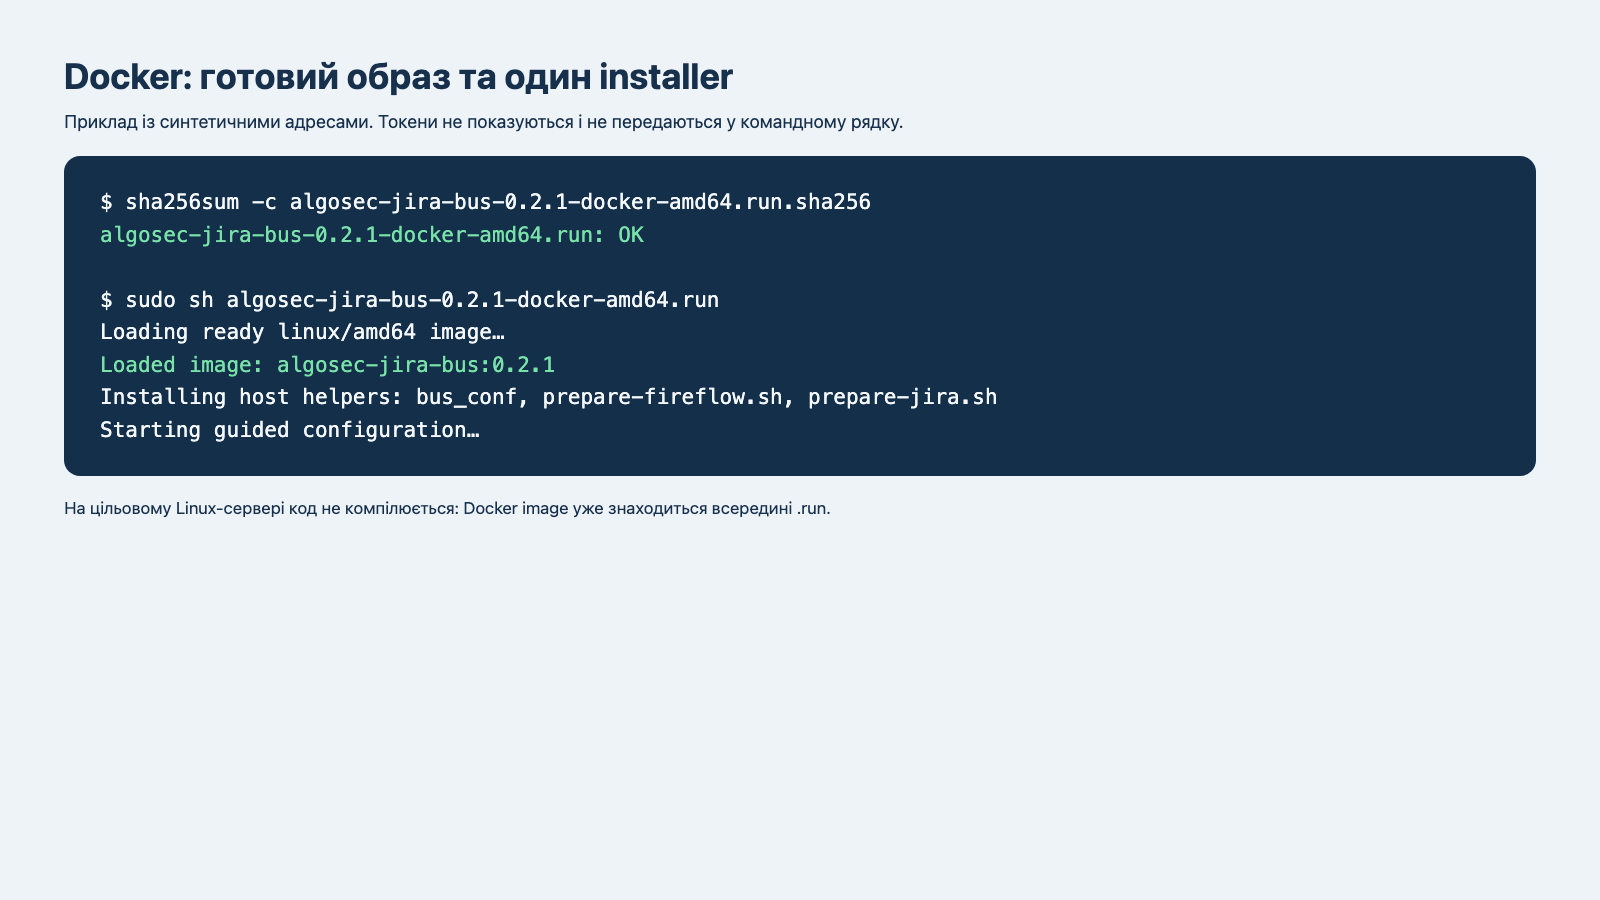
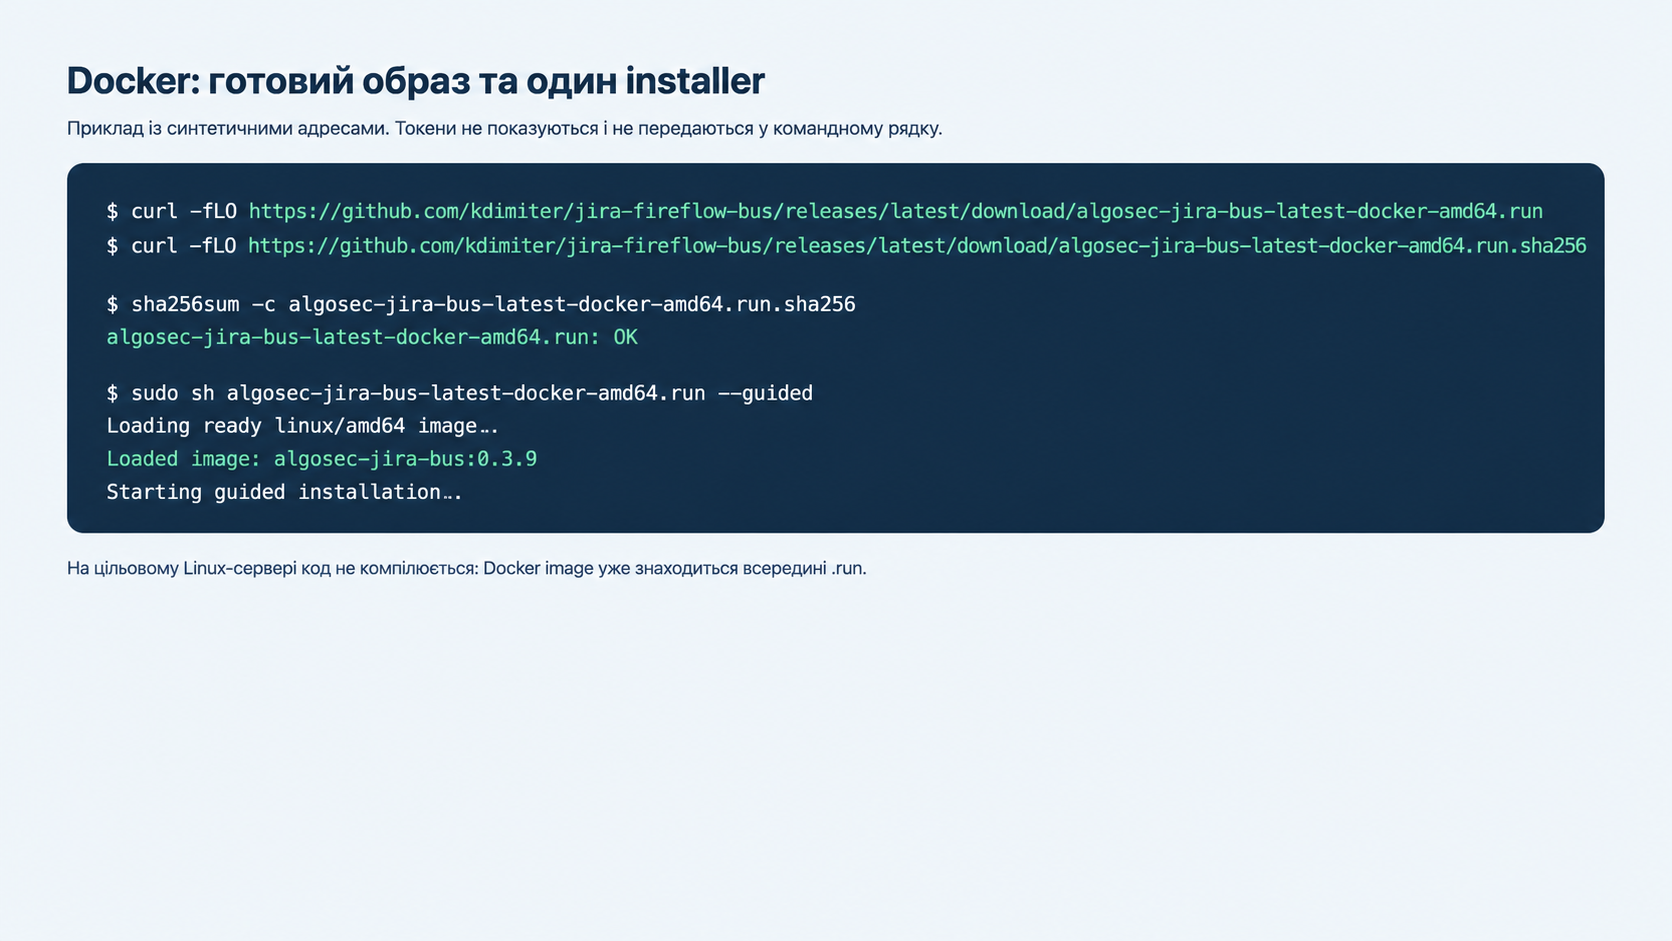
docs: add current installer and Jira form visuals (#27)
The README and Ukrainian deployment guide now show the current stable
Docker installer, a sanitized structured Jira request using RFC 5737
addresses, and the post-deployment configuration screen. The public-tree
allowlist pins both reviewed image digests.

Validation:
- `python3 scripts/check-public-tree.py`
- `python3 -m unittest tests.test_public_tree`
- privacy review: no PII, credentials, tenant hostnames, internal
addresses, or secrets

diff --git a/scripts/check-public-tree.py b/scripts/check-public-tree.py
@@ -41,8 +41,9 @@ allowed_screenshots = {
         'f5f8a9c9c7739345', '56106c1bce769247')),
[6 lines of base64/hex data omitted]
 }
 violations = []
 for path in root.rglob('*'):

diff --git a/README.md b/README.md
@@ -45,6 +45,8 @@ sudo docker ps --filter name=algosec-jira-bus
 sudo docker logs --tail 100 algosec-jira-bus
 ```
 
+![Ready Docker installer with stable latest-release links](docs/screenshots/21-docker-installer.png)
+
 `--guided` is the simplest installation path for a new Linux server. It installs missing
 Docker, Git, terminal-dialog and build prerequisites; installs Node.js 22 and Forge CLI under
 the selected non-root operator; deploys or reuses one Forge App; and prepares a company-managed
@@ -62,6 +64,8 @@ To Do -> Plan -> Approve -> Implement -> Validate -> Match -> Done
 it belongs to the Multi-Approval and Parallel-Approval FireFlow workflows, not Basic. The
 wizard then validates and starts the Docker bus. Forge credentials are used only during
 deployment. Runtime Jira and FireFlow secrets remain in the private container configuration.
+
+![Structured Jira network-access request with RFC 5737 example addresses](docs/screenshots/23-structured-network-request.png)
 
 Upgrade an existing installer-managed container without entering or rewriting its secrets:
 
@@ -124,6 +128,8 @@ subsequent release upgrades. Every configuration run asks for the Jira and FireF
 API credentials again; enter the current values even when changing only one setting. After
 FireFlow authentication, the wizard automatically loads all permitted FireFlow-supported
 device tree names from ASMS; they are not typed manually.
+
+![Post-deployment bus configuration with synthetic endpoints and hidden secrets](docs/screenshots/22-bus-conf.png)
 
 `sudo bus_conf --jira-sync` is a separate menu that preserves both API credentials. It can copy
 new Jira comments into FireFlow as internal History comments and apply an editable, explicit
@@ -283,6 +289,8 @@ sha256sum -c algosec-jira-bus-latest-docker-amd64.run.sha256
 sudo sh algosec-jira-bus-latest-docker-amd64.run --guided
 ```
 
+![Готовий Docker installer зі стабільними latest-посиланнями](docs/screenshots/21-docker-installer.png)
+
 Режим `--guided` відкриває єдиний діалоговий майстер, який:
 
 - встановлює відсутні системні залежності й Docker;
@@ -309,6 +317,8 @@ To Do -> Plan -> Approve -> Implement -> Validate -> Match -> Done
 `Rejected` і `Cancelled` є альтернативними кінцевими статусами. Статусу `Review` тут немає:
 він належить до FireFlow Multi-Approval та Parallel-Approval, а не до Basic workflow.
 
+![Структурована Jira-форма з прикладами адрес із RFC 5737](docs/screenshots/23-structured-network-request.png)
+
 ## Керування після встановлення
 
 ```sh
@@ -325,6 +335,8 @@ sudo bus_conf --refresh-certificate
 # Налаштувати opt-in синхронізацію коментарів і статусів Jira -> FireFlow:
 sudo bus_conf --jira-sync
 ```
+
+![Повторна конфігурація шини із синтетичними адресами та прихованими секретами](docs/screenshots/22-bus-conf.png)
 
 Майстер залишає `apply: false`, доки оператор явно не введе `START`. Після успішного запуску
 контейнер опитує Jira та FireFlow через HTTPS. Створення, погодження, планування й виконання

diff --git a/docs/DEPLOYMENT-GUIDE-uk.md b/docs/DEPLOYMENT-GUIDE-uk.md
@@ -59,6 +59,8 @@ Forge app.
 
 Для форми **Create → Network Access** потрібно чотири custom fields: одне структуроване Forge-поле та три текстові поля результату. Поля всередині форми — обґрунтування, Allow/Drop, джерело, призначення, протокол і порт — є частинами **одного object-поля «Мережеві доступи AlgoSec»**. Не створюйте для них окремі стандартні Jira-поля: поточна шина читає `trafficLines` зі структурованого об’єкта. `Summary` залишається стандартним заголовком Jira.
 
+![Структурована форма мережевого доступу з адресами документаційної мережі RFC 5737](screenshots/23-structured-network-request.png)
+
 | Точна назва | Тип | Хто заповнює | Required |
 |---|---|---|---|
 | Мережеві доступи AlgoSec | Forge custom field, `object`; module key `algosec-network-access` | Заявник через форму застосунку | Так |
